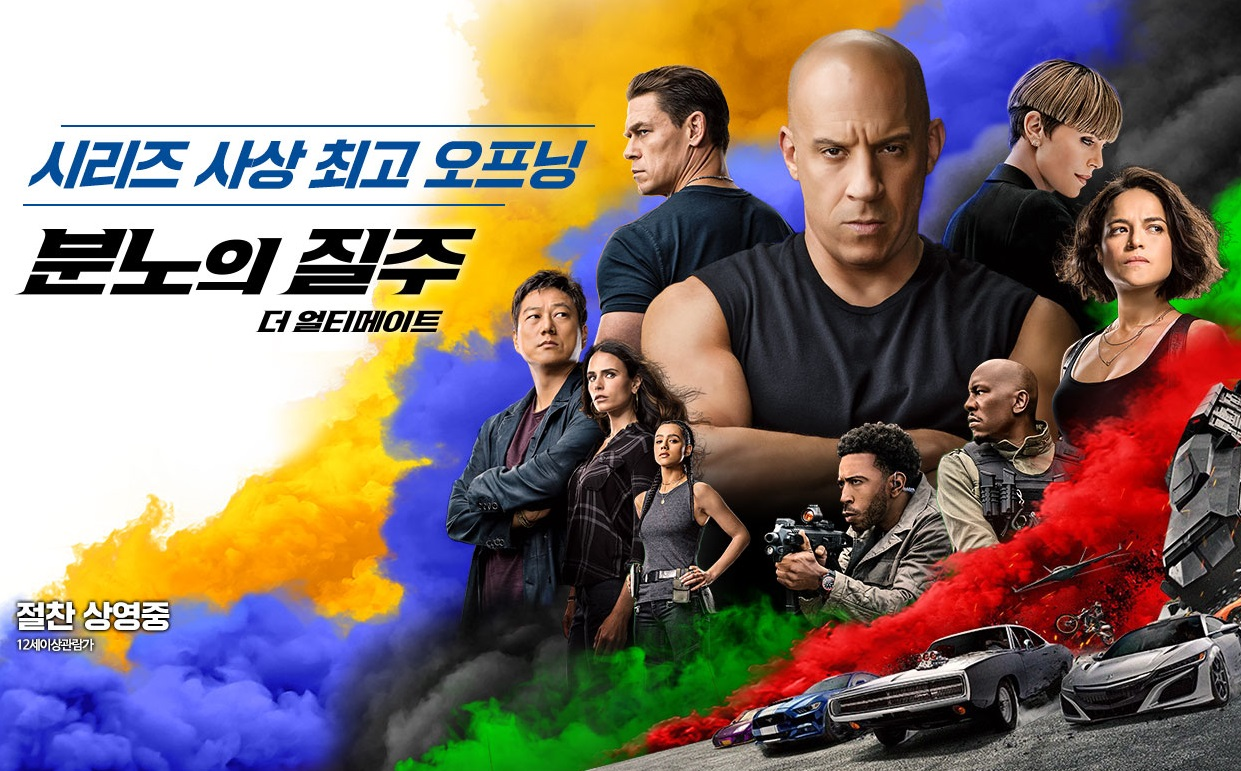
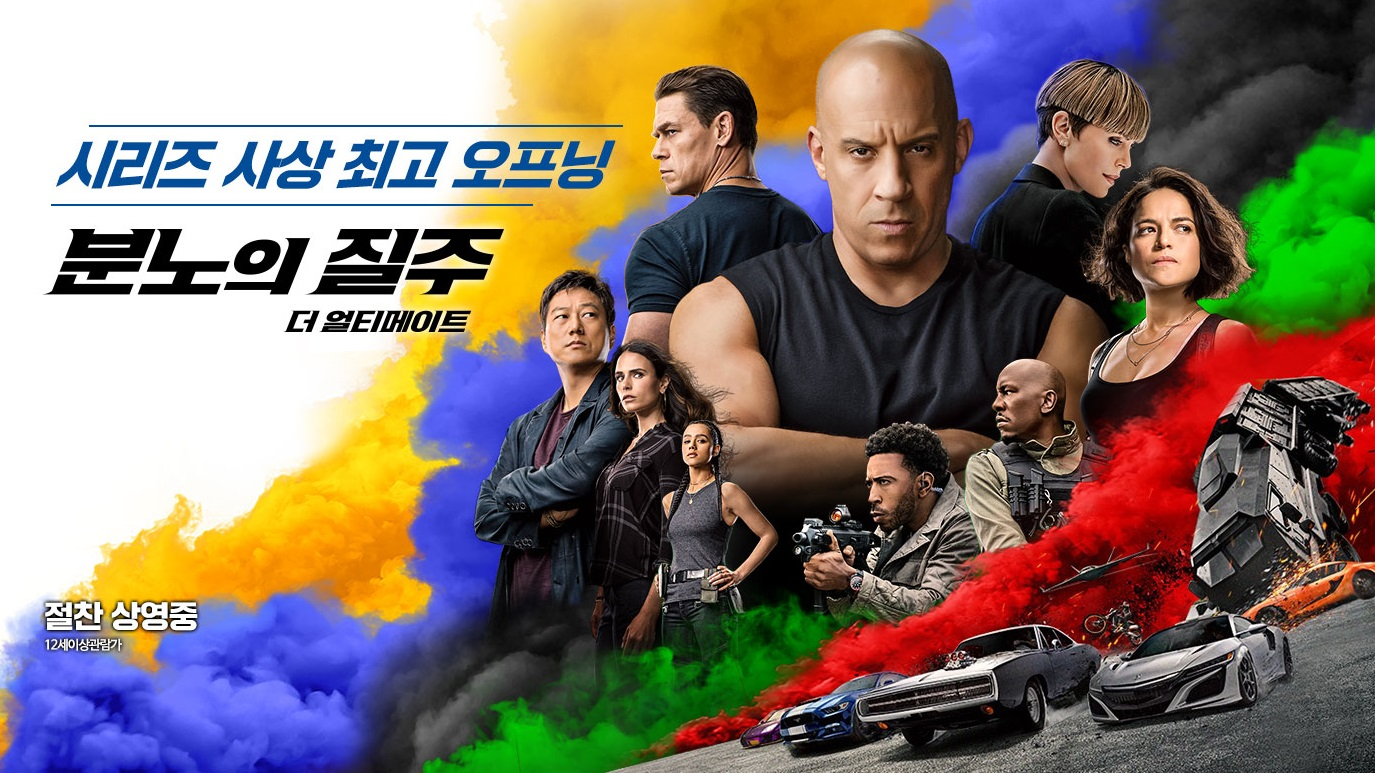
Third Commit [2021-05-22]

diff --git a/style.css b/style.css
@@ -5,6 +5,7 @@
     --grey-dark-color:#909090;
     --grey-light-color: #e0e0e0;
     --yellow-color:#f3b814;
+    --gradient-color:-webkit-linear-gradient(  #140a00ce,#0c0c0c00 );
 
     /* Size */
     --padding:10px;
@@ -74,7 +75,7 @@ button:focus{
 header{
     position: sticky;
     top:0;
-    background: linear-gradient ( #140a00 , #fff );
+    background: var(--gradient-color);
     padding: 0 var(--side-padding);
 }
 
@@ -90,7 +91,7 @@ header .menu1{
     display:flex;
     justify-content: space-between;
     font-size: var(--font-small);
-    color: var(--grey-dark-color);
+    color: var(--grey-light-color);
     padding: var(--padding) 0;
     border-bottom: 1px solid var(--grey-light-color);
 }
@@ -118,7 +119,12 @@ header .menu2 .main_menu .reservation{
 
 /* Movie Trailer Player */
 .player{
+    --header-size:"green";
+    top: var(--header-size);
+    width: 100%;
+    height: 100%;
     text-align: center;
+    background: var(--black-color);
 }
 .player .background{
     padding: calc(var(--side-padding)/4);
@@ -128,10 +134,14 @@ header .menu2 .main_menu .reservation{
     height: auto;
     max-width: 1500px;
 }
+.player .gradient{
+    margin: var(--side-padding) 0;
+    background: var(--gradient-color);
+}
 
 /* Movie Ranking */
 .ranking{
-    padding: var(--padding) var(--side-padding);
+    padding: 0 var(--side-padding);
     padding-bottom: calc(var(--side-padding)/2);
     color: var(--white-color);
     background-color: var(--black-color);

diff --git a/index.html b/index.html
@@ -59,10 +59,9 @@
     </header>
 
     <!-- Movie Trailer Player -->
-    <section class="player" style="position: relative; left:0px; top: -115px; z-index: 1;">
-        <div class="background"></div>
+    <section class="player" style="position: relative; z-index: 1;" id=poster>
         <button><img src="image/fastandfurious_thumbnail.jpg" alt=""></button>
-        <div class="background"></div>
+        <!-- <div class="gradient" style="position: relative; left:0px; top: -115px; z-index: 2;"></div> -->
     </section>
 
     <!-- Movie Ranking -->

diff --git a/main.js b/main.js
@@ -1,3 +1,13 @@
+const header=document.querySelector('header');
+const header_length=header.clientHeight;
+const poster=document.getElementById('poster');
+
+let styles=getComputedStyle(poster);
+console.log(styles.getPropertyPriority('--header-size'));
+poster.style.setProperty('--header-size',-header_length);
+console.log(styles.getPropertyPriority('--header-size'));
+
+
 const closeBtn=document.querySelector('.banner .closeBtn');
 const banner=document.querySelector('.banner');
 
